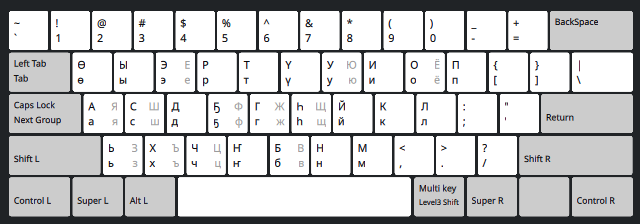
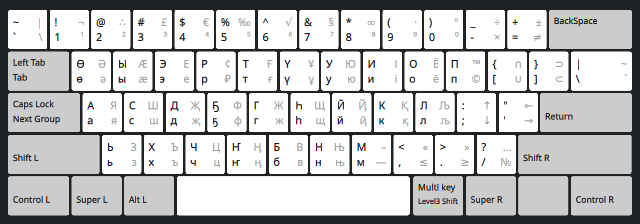
Edits to READMEs + couple of Kazakh symbols

diff --git a/README.sah.md b/README.sah.md
@@ -6,42 +6,45 @@
 
 # Араастара
 
-Бу сахалыы кылабатыыра аттарыыта үс туспа көрүҥнээх.
+Бу сахалыы кылабатыыра аттарыыта үс туспа көрүҥнээх. Үс көрүҥ манныктар:
 
 ## 1. MS Windows (аан турук)
 
-Microsoft Windows оҥорбут нууччалыы аттарыы копиятын кэриҥэ. Чопчу Windows курдук
-биэс "эбии" сахалыы ҤҔӨҺҮ буукубалаар үөһээ кэккэҕэ
-түөртэн аҕыска диэри сыыппаралары солбуйаллар.
-Ол гынан баран, бу көрүҥэ аҕыйах уларыйыылаах:
-* Бу раскладка нууччалыы "Ё" буукубалаах, үс диэн сыыппараны солбуйар. Оннук буолан нуучча алпаабыыта толору буолар. Ол иһин биир аттарыы икки тылга иккиэннаригэр туттуллуон сөп.
-* "Дь" лигатура саха типографиятыгар дьиҥинэн туттуллубат, уонна Юникодка син биир суох. Ол иһин бу аттарыытыттан быраҕыллыбыт. 
-* Сыыппаралары Alt-R (Multi key Level3 shift) көмөтүнэн суруйуута эбиллибит.
+Microsoft Windows нууччалыы аттарыытын копия кэриҥэ. Чопчу Windows курдук
+биэс "эбии" сахалыы ҤҔӨҺҮ буукубалаар үөһээҥҥи кэккэҕэ
+түөрт сыыппараттан аҕыска дылы тимэхтэри солбуйаллар.
+Ол гынан баран, бу көрүҥ аҕыйах уларыйыылаах:
+* Бу раскылаадка нууччалыы "Ё" буукубалаах, үс диэн сыыппараны солбуйар. Оннук буолан нуучча алпаабыыта толору буолар. Ол иһин биир аттарыы икки тылга иккиэннаригэр туттуллуон сөп.
+* "Дь" лигатура Юникодка суох, уонна саха типографиятыгар дьиҥинэн туттуллубат, бары "д" + "ь" диэн бэчээттииллэр син биир. Ол иһин бу аттарыытыттан быраҕыллыбыт.
+* Сыыппаралары Alt-R (Multi key Level3 shift) көмөтүнэн суруйуохха син.
 
 ![WinKeys варианнаах аттарыы](./files/sah-xkb-win-layout.png)
 
 ## 2. he5yH
 
-Үйэ саҕаланыаҕыттан, туох да стандарт суох кэмигэр үөскээбит, де-факто стандарт буолбут, "ҺӨҔҮҤ" диэн киэҥник биллэр легендарнай расклаадката. Төттөрү сөп түбэһиигэ уонна ретро энтузиасттарыгар аналлаах буоллун дин оҥоһуллубут.
+Үйэ саҕаланыаҕыттан, туох да стандарт суох кэмигэр үөскээбит, бэйэтэ де-факто стандарт буолбут, "ҺӨҔҮҤ" диэн киэҥник биллэр легендарнай расклаадката. Төттөрү сөп түбэһиигэ уонна ретро энтузиасттарыгар аналлаах буоллун дин оҥоһуллубут.
+Бэрт Дьиктигэ махтал!
 
-![Segun варианнаах аттарыы](./files/sah-xkb-seg-layout.png)
+![ҺӨҔҮҤ варианнаах аттарыы](./files/sah-xkb-seg-layout.png)
 
 ## 3. Фонетическай (Андроид курдук)
 
 Өссө биир кылабатыыра оҥоһуута (экспериментальнай), фонетическай өттүнэн английскай QWERTY-ны тутуһар.
 Android-ка баар AnySoftKeyboard сахалыы клавиатура кэҥэтиитин арааһа быһыытынан баара.
 Бу аттарыы сүрүн үчүгэйэ диэн, стандартнай QWERTY кылабатыыратын 26 латыынныы алпабыыт клавишатын эрэ туһанар.
-Ол иһин, эҥин араас кыра, холобура туспа көтөҕүллэр клавиатураларга, эбитэр "Смарт" телевизор пульттарга
-туттуллуон сөп. Ол эрээри, дьөссө QWERTY-га үөрэммит, ЙЦУКЕҤҥа үөрэниэхтэрин баҕарбат дьон эмиэ туттуохтарын сөп.
-Бу фонетическай көрүҥэр "наар нууччалыы", саха тылыгар дьикти кириллица буукубалары (хол. Я, Ё, Ж, Ш уо.д.а.)
-Right Alt кнопканан киллэриэххэ сөп.
+Ол иһин, эҥин араас кыра, холобура көтөҕүллэр, сиэпкэ угуллар клавиатураларга, эбитэр "Смарт" телевизор пульталарга
+туттуллуон сөп. Бу аттарыыта маннык ордуктаах:
+* ЙЦУКЕН-ҥа наадыйбат QWERTY-га үөрэммит дьон үргүдьү туттуохтарын сөп.
+* "Наар нууччалыы", саха тылыгар дьикти буукубалар, хол. Я, Ё, Ж, Ш уо.д.а. Alt-R кэннигэр симиллибиттэр
+* Alt-R-ынан атын да дьикти симболлары киллэриэххэ сөп: Њ Ҋ ₽ ™ « » Љ € № эҥин.
+* Бар сахалыы төрүт буукубалар биир кэлим үс кэккэҕэ бааллара сахалыы суруйааһын олус быдан түргэтиир, үөрэннэххэ.
 
 ![Фонетическай варианнаах аттарыы](./files/sah-xkb-pho-layout.png)
 
 # Компьютерга Туруорааһын
 
 [the latest release](https://github.com/kyraha/sah-xkb/releases/latest) сирэйтэн zip архыыбын хачайдаан ыл
-уонна локальнай диискаҕар хостоо. Онтон...
+уонна локальнай диискаҕар хостоо. Онтон, аныгы опциялартан биири тал:
 
 ## Наһаа уһуннук кэпсээмэ. Ханна баттыыбын көрдөр.
 
@@ -52,28 +55,30 @@ Right Alt кнопканан киллэриэххэ сөп.
 1. `./install-local.sh`
 
 Ол кэнниттэн систиэмнэй туруорууларгын, клавиатуураҕын, эбэтэр тыл аттарыыларгын, эбэтэр киллэрии ньымаларын арый.
-Саха (Sakha) тыла испииһэккэ баар буолуохтаах.
-S- буукубаттан саҕаланарын көрдөө.
+Саха тыла испииһэккэ көстүөхтээх. Sakha диэн S- буукубаттан саҕаланарын көрдөө.
+Көстүбэтэҕинэ, сороҕор тахсан баран төттөрү киирдэххинэ эрэ үлэлээччи.
 
 ## Илиинэн туруоруу
 
-Бэлэм програаммаларга итэҕэйбэккин буоллаҕына, бу аттарыыны илиигинэн да туруоруоххун сөп.
+Бэлэм програаммаларга эрэммэт буоллаххына, бу аттарыыны илиигинэн да туруоруоххун сөп.
 
 1. Локальнай `$HOME/.config/xkb` атын XKB настройкалара суохтарын бэрэбиэркэлээ
-1. Атын настройкалара баар буоллаҕына, ону аныгы илиинэн оҥоһуллар хардыыларынан алдьаппаккын курдук диэн мэктиэлээ
+1. Атын настройкалара баар буоллахтарына, аныгы оҥоһуллар хардыыларынан ону алдьаппаккын курдук мэктиэлээ
 1. `mkdir -p $HOME/.config/xkb`
 1. `cp -r sah-xkb/rules $HOME/.config/xkb/`
 1. `cp -r sah-xkb/symbols $HOME/.config/xkb/`
 
 Бүттэ. Систиэмнэй туруорууларгын, клавиатуураҕын, эбэтэр тыл аттарыыларгын, эбэтэр киллэрии ньымаларын арый.
-Саха (Sakha) тыла испииһэккэ баар буолуохтаах.
-S- буукубаттан саҕаланарын көрдөө.
+Саха тыла испииһэккэ көстүөхтээх. Sakha диэн S- буукубаттан саҕаланарын көрдөө.
+Көстүбэтэҕинэ, сороҕор тахсан баран төттөрү киирдэххинэ эрэ үлэлээччи.
 
 ## Систиэмэ үрдүнэн туруоруу
 
-Бүтүн систиэмэҕэ саҥа клавиатура оҥоһуутун туруорарга root (администратор) бырааптаах буолуохтааххын. Бу  инструкция
-итинник бырааптаах терминалга киирэ сылдьан, өйдөөбөккө ханнык баҕарар алдьархайы оҥорбут эбэтэр оҥорботох эн толору эппиэтинэһи ылаҕын дии саныыр. 
-`su -` эбэтэр `sudo sh` хамаандалар тустарынан сиһилии көрдөө уонна аах. Сэрэтэллибиккин.
+Бүтүн систиэмэҕэ саҥа клавиатура оҥоһуутун туруорарга root (администратор) бырааптаах буолуохтааххын. Бу инструкция
+итинник бырааптаах терминалга киирэ сылдьан, өйдөөбөккө ханнык баҕарар алдьархайы оҥорбут эбэтэр оҥорботох эн толору эппиэтинэһи ылаҕын дии саныыр. `su -` эбэтэр `sudo sh` хамаандалар тустарынан сиһилии көрдөө уонна аах. Сэрэтэллибиккин.
+
+Үгүс дьоҥҥо система аан үрдүнэн клавиатуураны туруорааһын үксүн наадата суох буолааччы.
+Тугу гынаргын билэр буоллаххына эрэ бу опцияны талыахтааххын.
 
 Өссө биир сабаҕалааһын: XKB конфигурационнай файллара эн систиэмэҕэр `/usr/share/X11/xkb` диэн сиргэ сыталлар үһү.
 
@@ -81,15 +86,16 @@ S- буукубаттан саҕаланарын көрдөө.
 Wayland-наах KDE Plasma-лаах Arch Linux-ка бэрэбиэркэлэммитэ. Барыларыгар тэҥҥэ үчүгэйдик үлэлээтэ.
 Атын да Linux уонна Unix курдук, XKB (X клавиатура кэҥэтиитин) туттар систиэмэлэргэ үлэлиэ диэн улахан буолар кыахтааҕа. Тугу гынаргын билэр буоллаххына, сөпкө гынарыҥ диэн сананаргынан процеһы уларытыаххын сөп.
 
-1. Силис буол! :) `root` быраабын ылын.
+1. Силис буол! һы-һы :) - `root` быраабын ылын.
 1. `symbols/sakha` билэни `/usr/share/X11/xkb/symbols/` диэн ыйдарыыга көһөр
 1. Тиэкис эрэдээктэригэр `rules/evdev.xml` билэни арый уонна XML ис хоһоонун үөрэт
-1. Туспа редакторга `/usr/share/X11/xkb/rules/evdev.xml` системнай билэни арый уонна саҥа `<layout>` элемены киллэриэххин сөп сири бул. Бу билэҕэ баар "лыайауттар" үксүгэр алпабыыт бэрээдэгинэн турааччылар. Онон "sah" диэни "rs" уонна "si" икки ардыгар киллэрэр ордук буолуо.
+1. Туспа редакторга `/usr/share/X11/xkb/rules/evdev.xml` системнай билэни арый уонна саҥа `<layout>` элемены ханна киллэриэххин сөп сири бул. Бу билэҕэ баар "лыайауттар" үксүгэр алпабыыт бэрээдэгинэн турааччылар. Онон "sah" диэни "rs" уонна "si" икки ардыларыгар киллэрэр ордук буолуо.
 Өйдөтүү: "Slovenian" диэни көрдөө.
-1. Хачайдаммыт билэттэн `<layout>` уонна `</layout>` (киллэрэн туран) икки ардыларыгар баар блоку көһөрөн киллэр.
-1. Билэххин харай.
+1. Хачайдаммыт билэттэн `<layout>` уонна `</layout>` (киллэрэн туран) икки ардыларыгар баарын барытын көһөрөн киллэр.
+1. Саҥа уларыппыт системнай билэххин харай.
 
 Бүттэ. Систиэмэ настройкаларыгар, мэлдьи клавиатура раскладкаларын активациялыыр сиригэр, хас да варианнаах "Sakha" диэн саҥа тылы булуохтааххын. Үлэ остуолун эйгэтиттэн эбэтэр Window Manager-тан тутулуктаах маннык буолуон сөп: "Настройкалар" -> "Регион уонна тыл" -> "Источники ввода" -> "+ Добавить".
-"Эбии" эбэтэр "Атын" диэни баттаан боруобалаа. Көстүбэтэҕинэ, баҕар тахсан баран төттөрү киириэххтээхин буолуо.
+"Эбии" эбэтэр "Атын" диэни баттаан боруобалаа.
+Көстүбэтэҕинэ, сороҕор тахсан баран төттөрү киирдэххинэ эрэ үлэлээччи.
 
 :copyright: 2025 Кыраһа Мэхээлэ

diff --git a/README.ru.md b/README.ru.md
@@ -20,7 +20,12 @@
 
 ## Phonetic (Android)
 
-Альтернативная раскладка, экспериментальная, фонетически напоминает английскую QWERTY, в точности как на телефонах Андроид с драйвером AnySoftKeyboard, и использует ровно 26 алфавитных клавиш минимальной английской клавиатуры, что делает её совместимой с заказными миниатюрными клавиатурами (типа пульт ДУ для "умных" телевизоров). А ещё может быть полезной для тех кто привык к QWERTY, т.к. не требует переучивания на ЙЦУКЕНГ и никаких дополнительных наклеек. К тому же не содержит лишних (русских) букв, таких как Я, Ё, Ж, Ш и т.д., хотя доступ к ним всё-равно есть через правую клавишу ALT (как показано на этом снимке).
+Альтернативная раскладка, экспериментальная, фонетически напоминает английскую QWERTY, в точности как на телефонах Андроид с драйвером AnySoftKeyboard, и использует ровно 26 алфавитных клавиш минимальной английской клавиатуры, что делает её совместимой с заказными миниатюрными клавиатурами (типа пульт ДУ для "умных" телевизоров).
+* Для тех, кто привык к QWERTY, не требует переучивания на ЙЦУКЕНГ и дополнительных наклеек.
+* Не содержит лишних (русских) букв, таких как Я, Ё, Ж, Ш и т.д., хотя доступ к ним всё-равно есть через правую клавишу ALT (как показано на снимке ниже).
+* Через правый ALT также можно набрать другие полезные символы: Њ Ҋ ₽ ™ « » Љ € №
+* Т.к. содержит буквы Ә Ғ Ұ Җ Қ Љ Ӊ, появляется возможность набора слов на казахском или татарском языках.
+* Ввиду компактного расположения основных якутских букв в трёх рядах натуральной алфавитной клавиатуры, скорость печати якутских текстов значительно возрастает по сравнению с другими существующими раскладками.
 
 ![Phonetic variant layout](./files/sah-xkb-pho-layout.png)
 

diff --git a/README.md b/README.md
@@ -32,11 +32,12 @@ layout for backward compatibility and for retro enthusiasts.
 Alternative keyboard layout (experimental) that phonetically follows the English QWERTY.
 It existed as a variant of a Sakha keyboard for Android as an extention for AnySoftKeyboard.
 The main advantage of this variant is that it uses exactly 26 alphabetiical keys of a
-standard QWERTY keyboard which makes it compatible with custom portable keyboards
+standard QWERTY keyboard for faster typing in Sakha. This also makes it compatible with custom portable keyboards
 such as e.g. "Smart" TV remotes. It also can be used by those who are used to QWERTY
 layouts and don't want to learn ЙЦУКЕНГ. This phonetic variant omits "purely Russian"
-cyrillic letters that are not natural in Sakha language, e.g. Я, Ё, Ж, Ш, etc.
-However they can be enterd with the Right Alt key.
+cyrillic letters that phonetically are not natural in Sakha language: e.g. Я, Ё, Ж, Ш, etc.
+However they still can be enterd with the Right Alt key. There are many other useful symbols
+available via Right Alt key - see the picture below.
 
 ![Phonetic variant layout](./files/sah-xkb-pho-layout.png)
 
